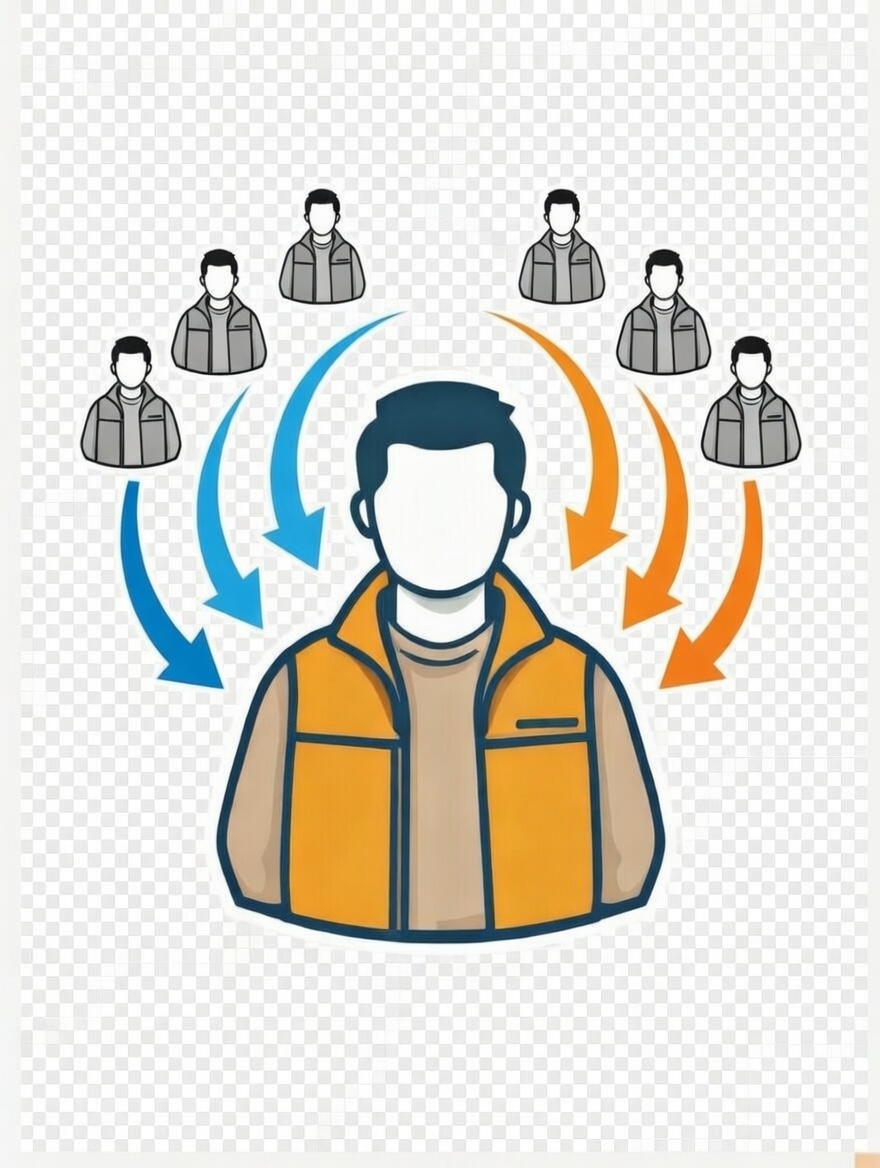
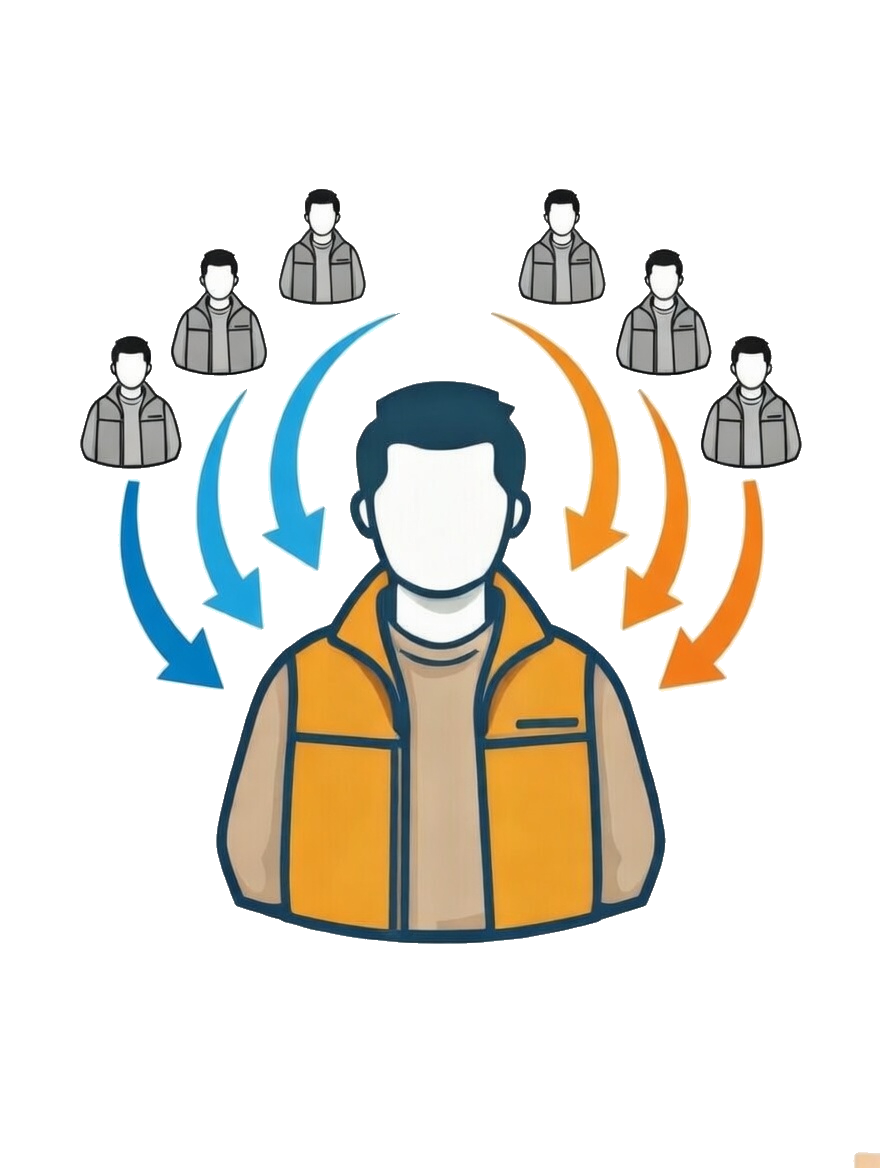
Process cards: true cutout heroes, deselect state, larger centered typography/content
Made-with: Cursor

diff --git a/src/pages/Home.jsx b/src/pages/Home.jsx
@@ -1,4 +1,4 @@
-import React, { useEffect, useMemo, useState } from 'react';
+import React, { useState } from 'react';
 import {
   Box,
   Button,
@@ -78,128 +78,68 @@ function Home() {
     navigate('/summary', { state: { formData: boldVisionaryPreset } });
   };
 
-  const panel = useMemo(() => {
-    if (sections[activeSection].key === 'process') {
-      return [
-        {
-          title: 'Capture',
-          hero: '/herothink.png',
-          text: 'Focused intake that captures your leadership baseline.',
-          bullets: [
-            'Fast input, high signal.',
-            'Clear baseline before reflection.',
-          ],
-        },
-        {
-          title: 'Reflect',
-          hero: '/heroreflect.png',
-          text: 'Review your summary and trait priorities to clarify what matters.',
-          bullets: [
-            'Clarity before action.',
-            'Practical leadership context.',
-          ],
-        },
-        {
-          title: 'Calibrate',
-          hero: '/herocalibrate.png',
-          text: 'Self and team assessments calibrate perspective against lived reality.',
-          bullets: [
-            'Align perspective and data.',
-            'Real feedback, real growth.',
-          ],
-        },
-        {
-          title: 'Embark',
-          hero: '/heroembark.png',
-          text: 'Launch a focused growth journey with action planning and momentum.',
-          bullets: [
-            'Start focused, stay moving.',
-            'Visible progress, clear next steps.',
-          ],
-        },
-      ];
-    }
-
-    if (sections[activeSection].key === 'method') {
-      return [
-        {
-          title: 'Mirror-Accurate',
-          hero: '/herothink.png',
-          text: 'Objective reflection of your current leadership approach.',
-          bullets: [
-            'Strengths and growth opportunities with clarity.',
-            'Creates language for meaningful team conversations.',
-          ],
-        },
-        {
-          title: 'Signal Over Noise',
-          hero: '/heroreflect.png',
-          text: 'Focuses your attention on the highest-impact shifts.',
-          bullets: [
-            'Prioritizes what matters most right now.',
-            'Turns insight into clear direction.',
-          ],
-        },
-        {
-          title: 'Built for Action',
-          hero: '/herothink.png',
-          text: 'You leave with priorities you can apply immediately.',
-          bullets: [
-            'Connects self-awareness to practical next steps.',
-            'Keeps your growth plan personal and sustainable.',
-          ],
-        },
-      ];
-    }
-
-    return [
-      {
-        title: 'Reflection Summary',
-        hero: '/heroreflect.png',
-        text: 'A clear portrait of your leadership with practical context.',
-        bullets: [
-          'What is working and where growth creates the biggest lift.',
-          'Move with confidence, not just information.',
-        ],
-      },
-      {
-        title: 'Focus Traits',
-        hero: '/heroreflect.png',
-        text: 'Five personalized growth traits tailored to your needs.',
-        bullets: [
-          'Development path specific and high impact.',
-          'Clear, actionable next steps.',
-        ],
-      },
-      {
-        title: 'Action Dashboard',
-        hero: '/heroreflect.png',
-        text: 'Campaign details, milestones, and resources in one place.',
-        bullets: [
-          'Prevents momentum loss after insights.',
-          'Accountability and measurable progress.',
-        ],
-      },
-    ];
-  }, [activeSection]);
+  const processCards = [
+    {
+      title: 'Capture',
+      hero: '/herothink.png',
+      text: 'Focused intake that captures your leadership baseline.',
+      points: [
+        'Fast input, high signal.',
+        'Clear baseline before reflection.',
+        'Grounded in your real leadership context.',
+        'Creates a clear starting point for growth.',
+      ],
+    },
+    {
+      title: 'Reflect',
+      hero: '/heroreflect.png',
+      text: 'Review your summary and trait priorities to clarify what matters.',
+      points: [
+        'Clarity before action.',
+        'Practical leadership context.',
+        'Turns insight into language you can use.',
+        'Focuses attention on the highest-leverage shifts.',
+      ],
+    },
+    {
+      title: 'Calibrate',
+      hero: '/herocalibrate.png',
+      text: 'Self and team assessments calibrate perspective against lived reality.',
+      points: [
+        'Align perspective and data.',
+        'Real feedback, real growth.',
+        'Surfaces blind spots with precision.',
+        'Builds trust through shared understanding.',
+      ],
+    },
+    {
+      title: 'Embark',
+      hero: '/heroembark.png',
+      text: 'Launch a focused growth journey with action planning and momentum.',
+      points: [
+        'Start focused, stay moving.',
+        'Visible progress, clear next steps.',
+        'Keeps accountability front and center.',
+        'Sustains momentum beyond the first insight.',
+      ],
+    },
+  ];
 
   const handleHeroSectionSelect = (sectionIdx) => {
-    setTransitionDir(sectionIdx >= activeSection ? 'left' : 'right');
+    if (activeSection === sectionIdx) {
+      setTransitionDir('right');
+      setActiveSection(null);
+      setFlippedCards({});
+      return;
+    }
+    if (activeSection === null) {
+      setTransitionDir('left');
+    } else {
+      setTransitionDir(sectionIdx >= activeSection ? 'left' : 'right');
+    }
     setActiveSection(sectionIdx);
     if (sectionIdx !== 0) setFlippedCards({});
   };
-
-  useEffect(() => {
-    if (sections[activeSection].key !== 'process') {
-      setFlippedCards({});
-    }
-  }, [activeSection]);
-
-  useEffect(() => {
-    if (sections[activeSection].key !== 'process') {
-      setFlippedCards({});
-    }
-  }, [activeSection]);
 
   const methodologyPillars = [
     {
@@ -502,7 +442,7 @@ function Home() {
               },
             }}
           >
-            {sections[activeSection].key === 'process' && (
+            {(activeSection === 0) && (
               <Box
                 sx={{
                   display: 'flex',
@@ -513,7 +453,7 @@ function Home() {
                   flexWrap: 'wrap',
                 }}
               >
-                {panel.map((item, idx) => (
+                {processCards.map((item, idx) => (
                   <React.Fragment key={item.title}>
                     {idx > 0 && (
                       <Box
@@ -594,7 +534,7 @@ function Home() {
                               top: '50%',
                               transform: 'translate(-50%, -50%)',
                               fontWeight: 900,
-                              fontSize: { xs: '1.35rem', md: '1.5rem' },
+                              fontSize: { xs: '2.05rem', md: '2.35rem' },
                               letterSpacing: '0.12em',
                               color: '#FFFFFF',
                               WebkitTextStroke: '2px #0F1F32',
@@ -627,10 +567,11 @@ function Home() {
                           <Typography
                             sx={{
                               fontWeight: 800,
-                              fontSize: '1.05rem',
+                              fontSize: '1.3rem',
                               letterSpacing: '-0.015em',
                               color: '#0F1F32',
                               mb: 0.5,
+                              textAlign: 'center',
                             }}
                           >
                             {item.title}
@@ -638,30 +579,40 @@ function Home() {
                           <Typography
                             sx={{
                               color: '#44566C',
-                              fontSize: '0.9rem',
+                              fontSize: '1.02rem',
                               lineHeight: 1.5,
                               fontWeight: 500,
+                              textAlign: 'center',
                             }}
                           >
                             {item.text}
                           </Typography>
-                          <Box component="ul" sx={{ m: 0, mt: 0.75, pl: 1.5 }}>
-                            {item.bullets.map((bullet) => (
-                              <Typography
-                                key={bullet}
-                                component="li"
-                                sx={{
-                                  color: '#526579',
-                                  fontSize: '0.85rem',
-                                  lineHeight: 1.45,
-                                  mb: 0.2,
-                                  fontWeight: 500,
-                                }}
-                              >
-                                {bullet}
-                              </Typography>
+                          <Stack spacing={0.45} sx={{ mt: 1 }}>
+                            {item.points.map((point) => (
+                              <Stack key={point} direction="row" spacing={0.7} justifyContent="center" alignItems="center">
+                                <Box
+                                  sx={{
+                                    width: 5.5,
+                                    height: 5.5,
+                                    borderRadius: '50%',
+                                    bgcolor: '#3F647B',
+                                    flexShrink: 0,
+                                  }}
+                                />
+                                <Typography
+                                  sx={{
+                                    color: '#526579',
+                                    fontSize: '0.93rem',
+                                    lineHeight: 1.42,
+                                    fontWeight: 500,
+                                    textAlign: 'center',
+                                  }}
+                                >
+                                  {point}
+                                </Typography>
+                              </Stack>
                             ))}
-                          </Box>
+                          </Stack>
                         </Box>
                       </Box>
                     </Box>
@@ -670,7 +621,97 @@ function Home() {
               </Box>
             )}
 
-            {sections[activeSection].key === 'method' && (
+            {(activeSection === null) && (
+              <Box
+                sx={{
+                  display: 'flex',
+                  flexDirection: { xs: 'column', md: 'row' },
+                  alignItems: 'center',
+                  justifyContent: 'center',
+                  gap: 0,
+                  flexWrap: 'wrap',
+                }}
+              >
+                {processCards.map((item, idx) => (
+                  <React.Fragment key={`compact-${item.title}`}>
+                    {idx > 0 && (
+                      <Box
+                        sx={{
+                          width: { xs: '60%', md: 24 },
+                          height: { xs: 0, md: 'auto' },
+                          minWidth: { xs: 0, md: 24 },
+                          alignSelf: 'center',
+                          borderTop: { xs: '2px dashed rgba(63,100,123,0.45)', md: 'none' },
+                          borderLeft: { xs: 'none', md: '2px dashed rgba(63,100,123,0.45)' },
+                          flexShrink: 0,
+                          mx: { xs: 0, md: 0.5 },
+                          my: { xs: 1, md: 0 },
+                        }}
+                      />
+                    )}
+                    <Box
+                      sx={{
+                        flex: { xs: '1 1 100%', md: '1 1 0' },
+                        minWidth: { xs: '100%', md: 280 },
+                        maxWidth: { xs: '100%', md: 385 },
+                      }}
+                    >
+                      <Box
+                        sx={{
+                          position: 'relative',
+                          width: '100%',
+                          height: { xs: 175, md: 192 },
+                          borderRadius: 2,
+                          border: '1px solid rgba(15,23,42,0.08)',
+                          bgcolor: '#FFFFFF',
+                          boxShadow: '0 6px 20px rgba(15,23,42,0.06)',
+                          overflow: 'hidden',
+                        }}
+                      >
+                        {item.hero && (
+                          <Box
+                            component="img"
+                            src={item.hero}
+                            alt=""
+                            aria-hidden
+                            sx={{
+                              position: 'absolute',
+                              left: '50%',
+                              top: '50%',
+                              transform: 'translate(-50%, -50%)',
+                              width: { xs: 220, md: 270 },
+                              height: 'auto',
+                              objectFit: 'contain',
+                              opacity: 0.6,
+                            }}
+                          />
+                        )}
+                        <Typography
+                          sx={{
+                            position: 'absolute',
+                            left: '50%',
+                            top: '50%',
+                            transform: 'translate(-50%, -50%)',
+                            fontWeight: 900,
+                            fontSize: { xs: '2.05rem', md: '2.35rem' },
+                            letterSpacing: '0.12em',
+                            color: '#0F2B45',
+                            WebkitTextStroke: '2px #FFFFFF',
+                            paintOrder: 'stroke fill',
+                            textTransform: 'uppercase',
+                            whiteSpace: 'nowrap',
+                          }}
+                        >
+                          {item.title}
+                        </Typography>
+                      </Box>
+                    </Box>
+                  </React.Fragment>
+                ))}
+              </Box>
+            )}
+
+            {activeSection === 1 && (
               <Stack spacing={{ xs: 2.5, md: 3 }}>
                 {methodologyPillars.map((pillar, idx) => (
                   <Box
@@ -731,7 +772,7 @@ function Home() {
               </Stack>
             )}
 
-            {sections[activeSection].key === 'deliverables' && (
+            {activeSection === 2 && (
               <Stack spacing={{ xs: 2.5, md: 3 }}>
                 {deliverablesOutcomes.map((outcome, idx) => (
                   <Box
